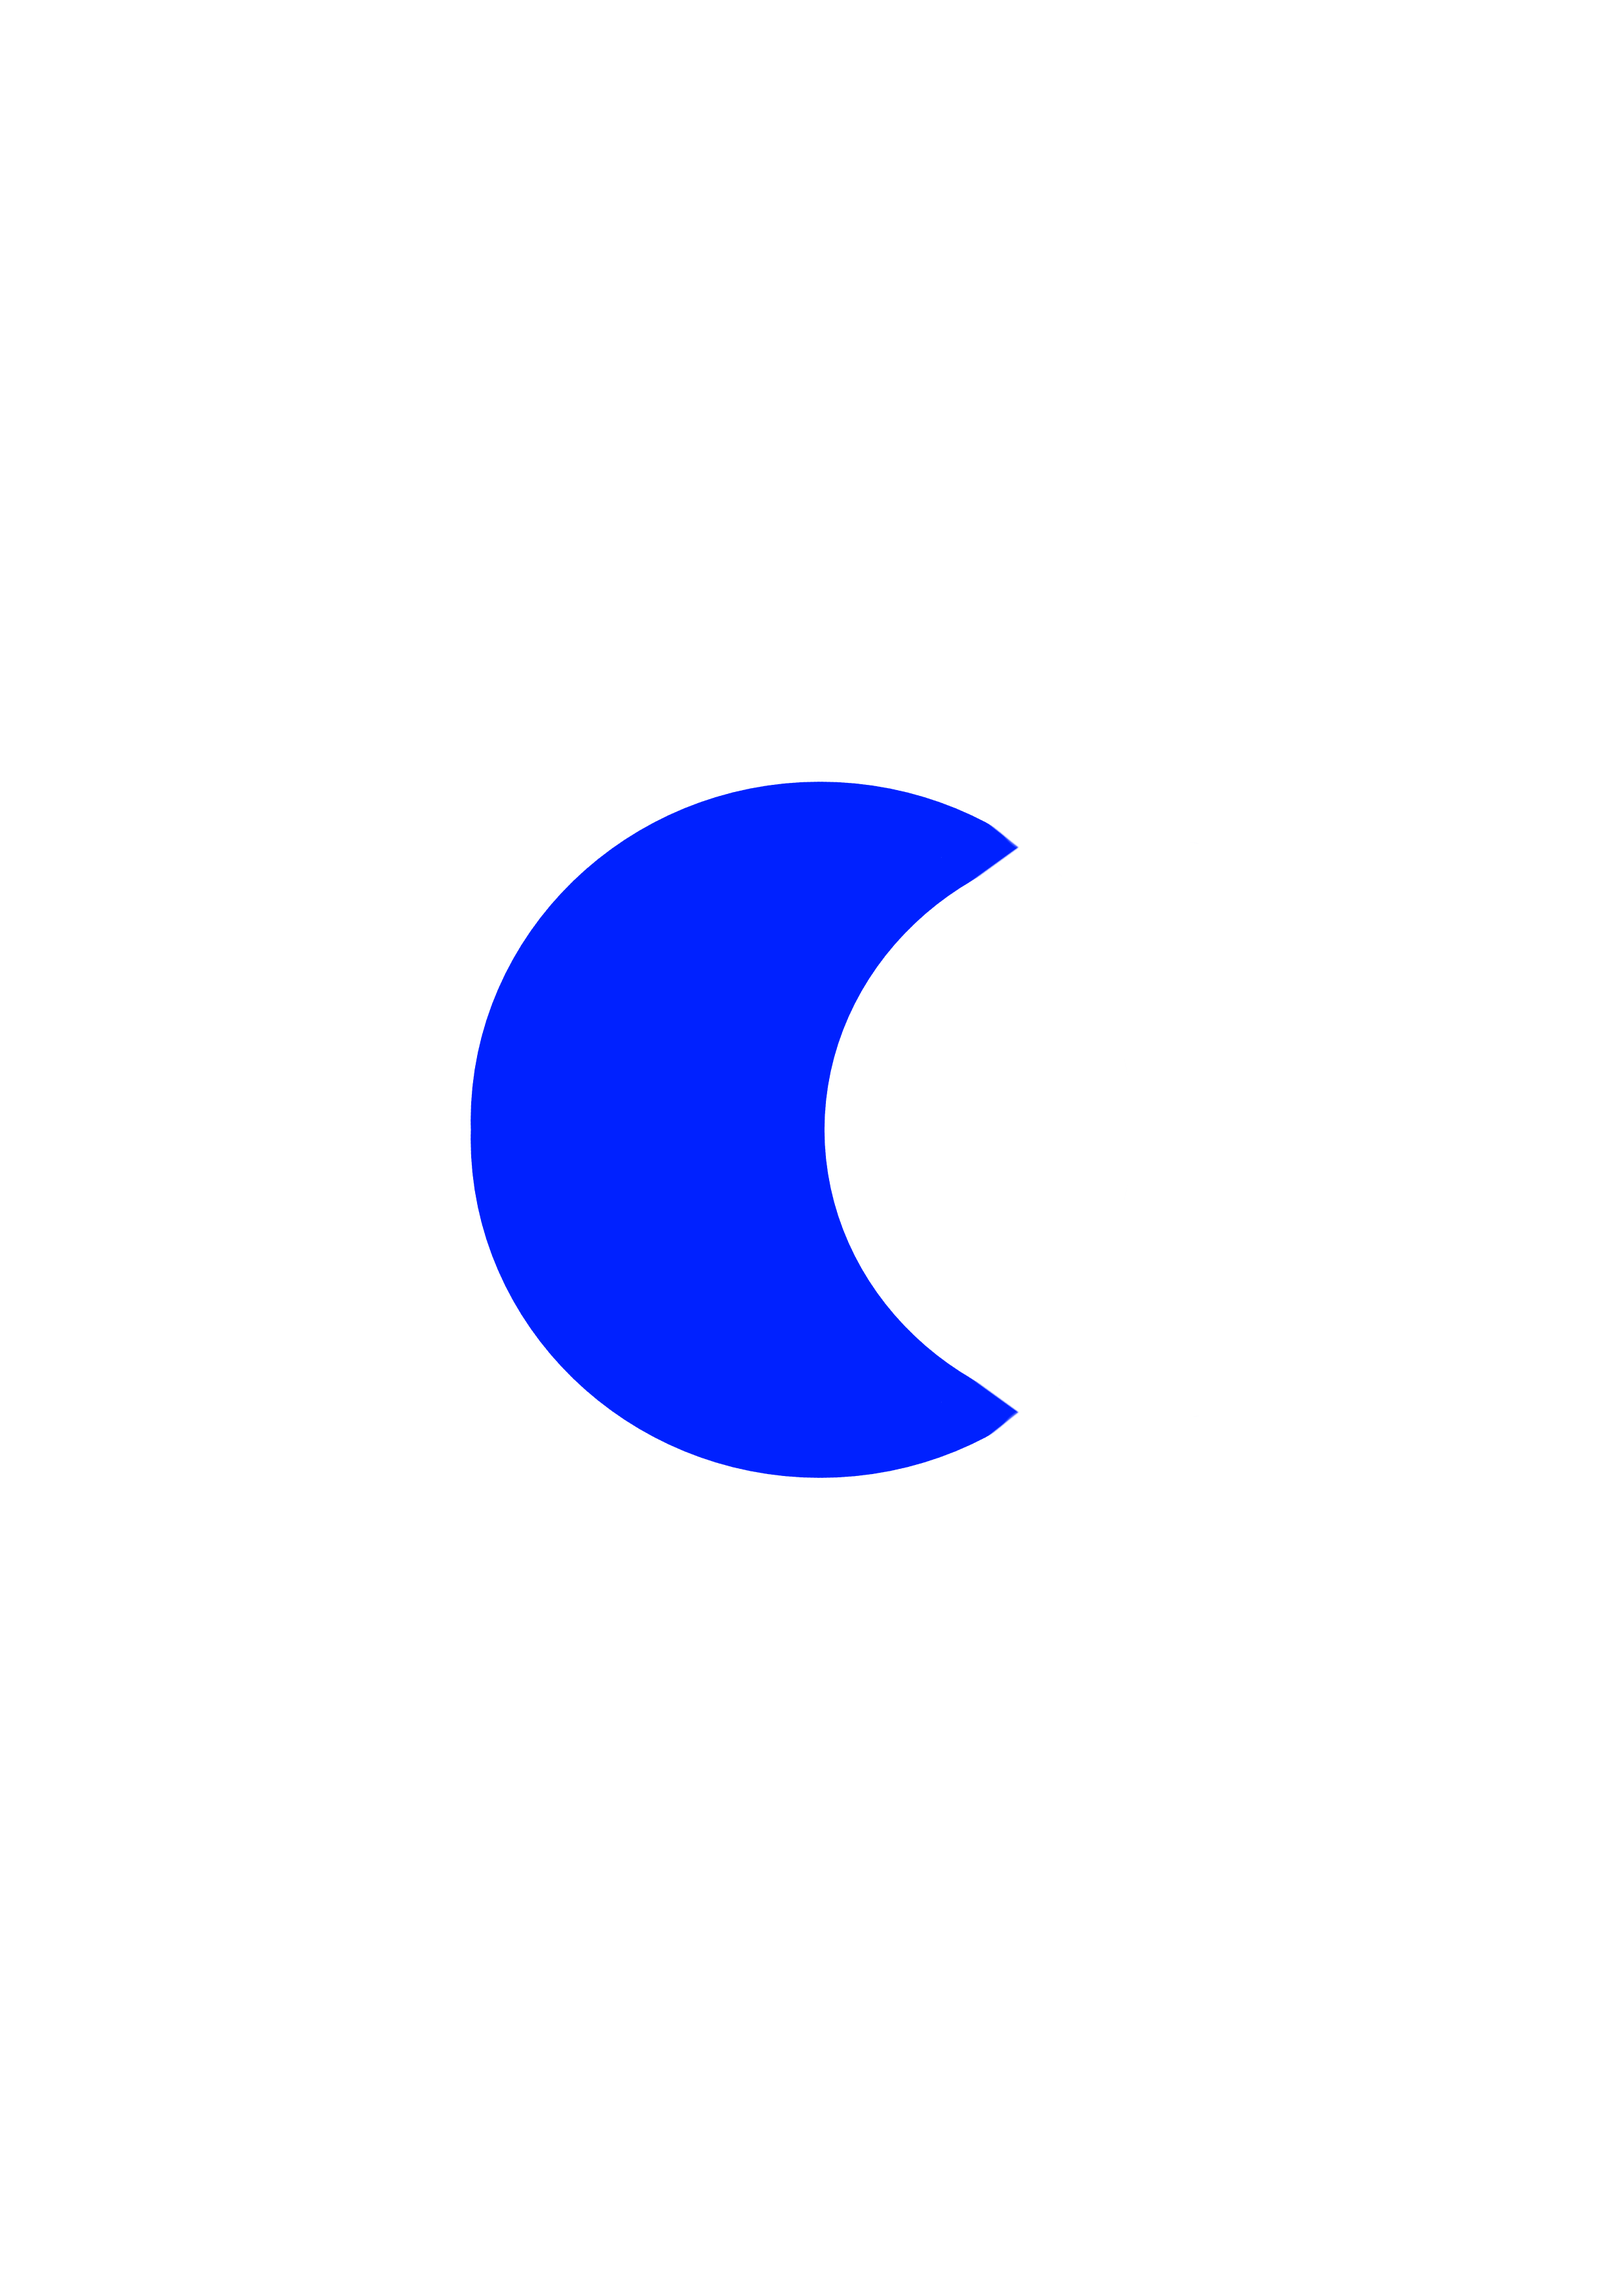
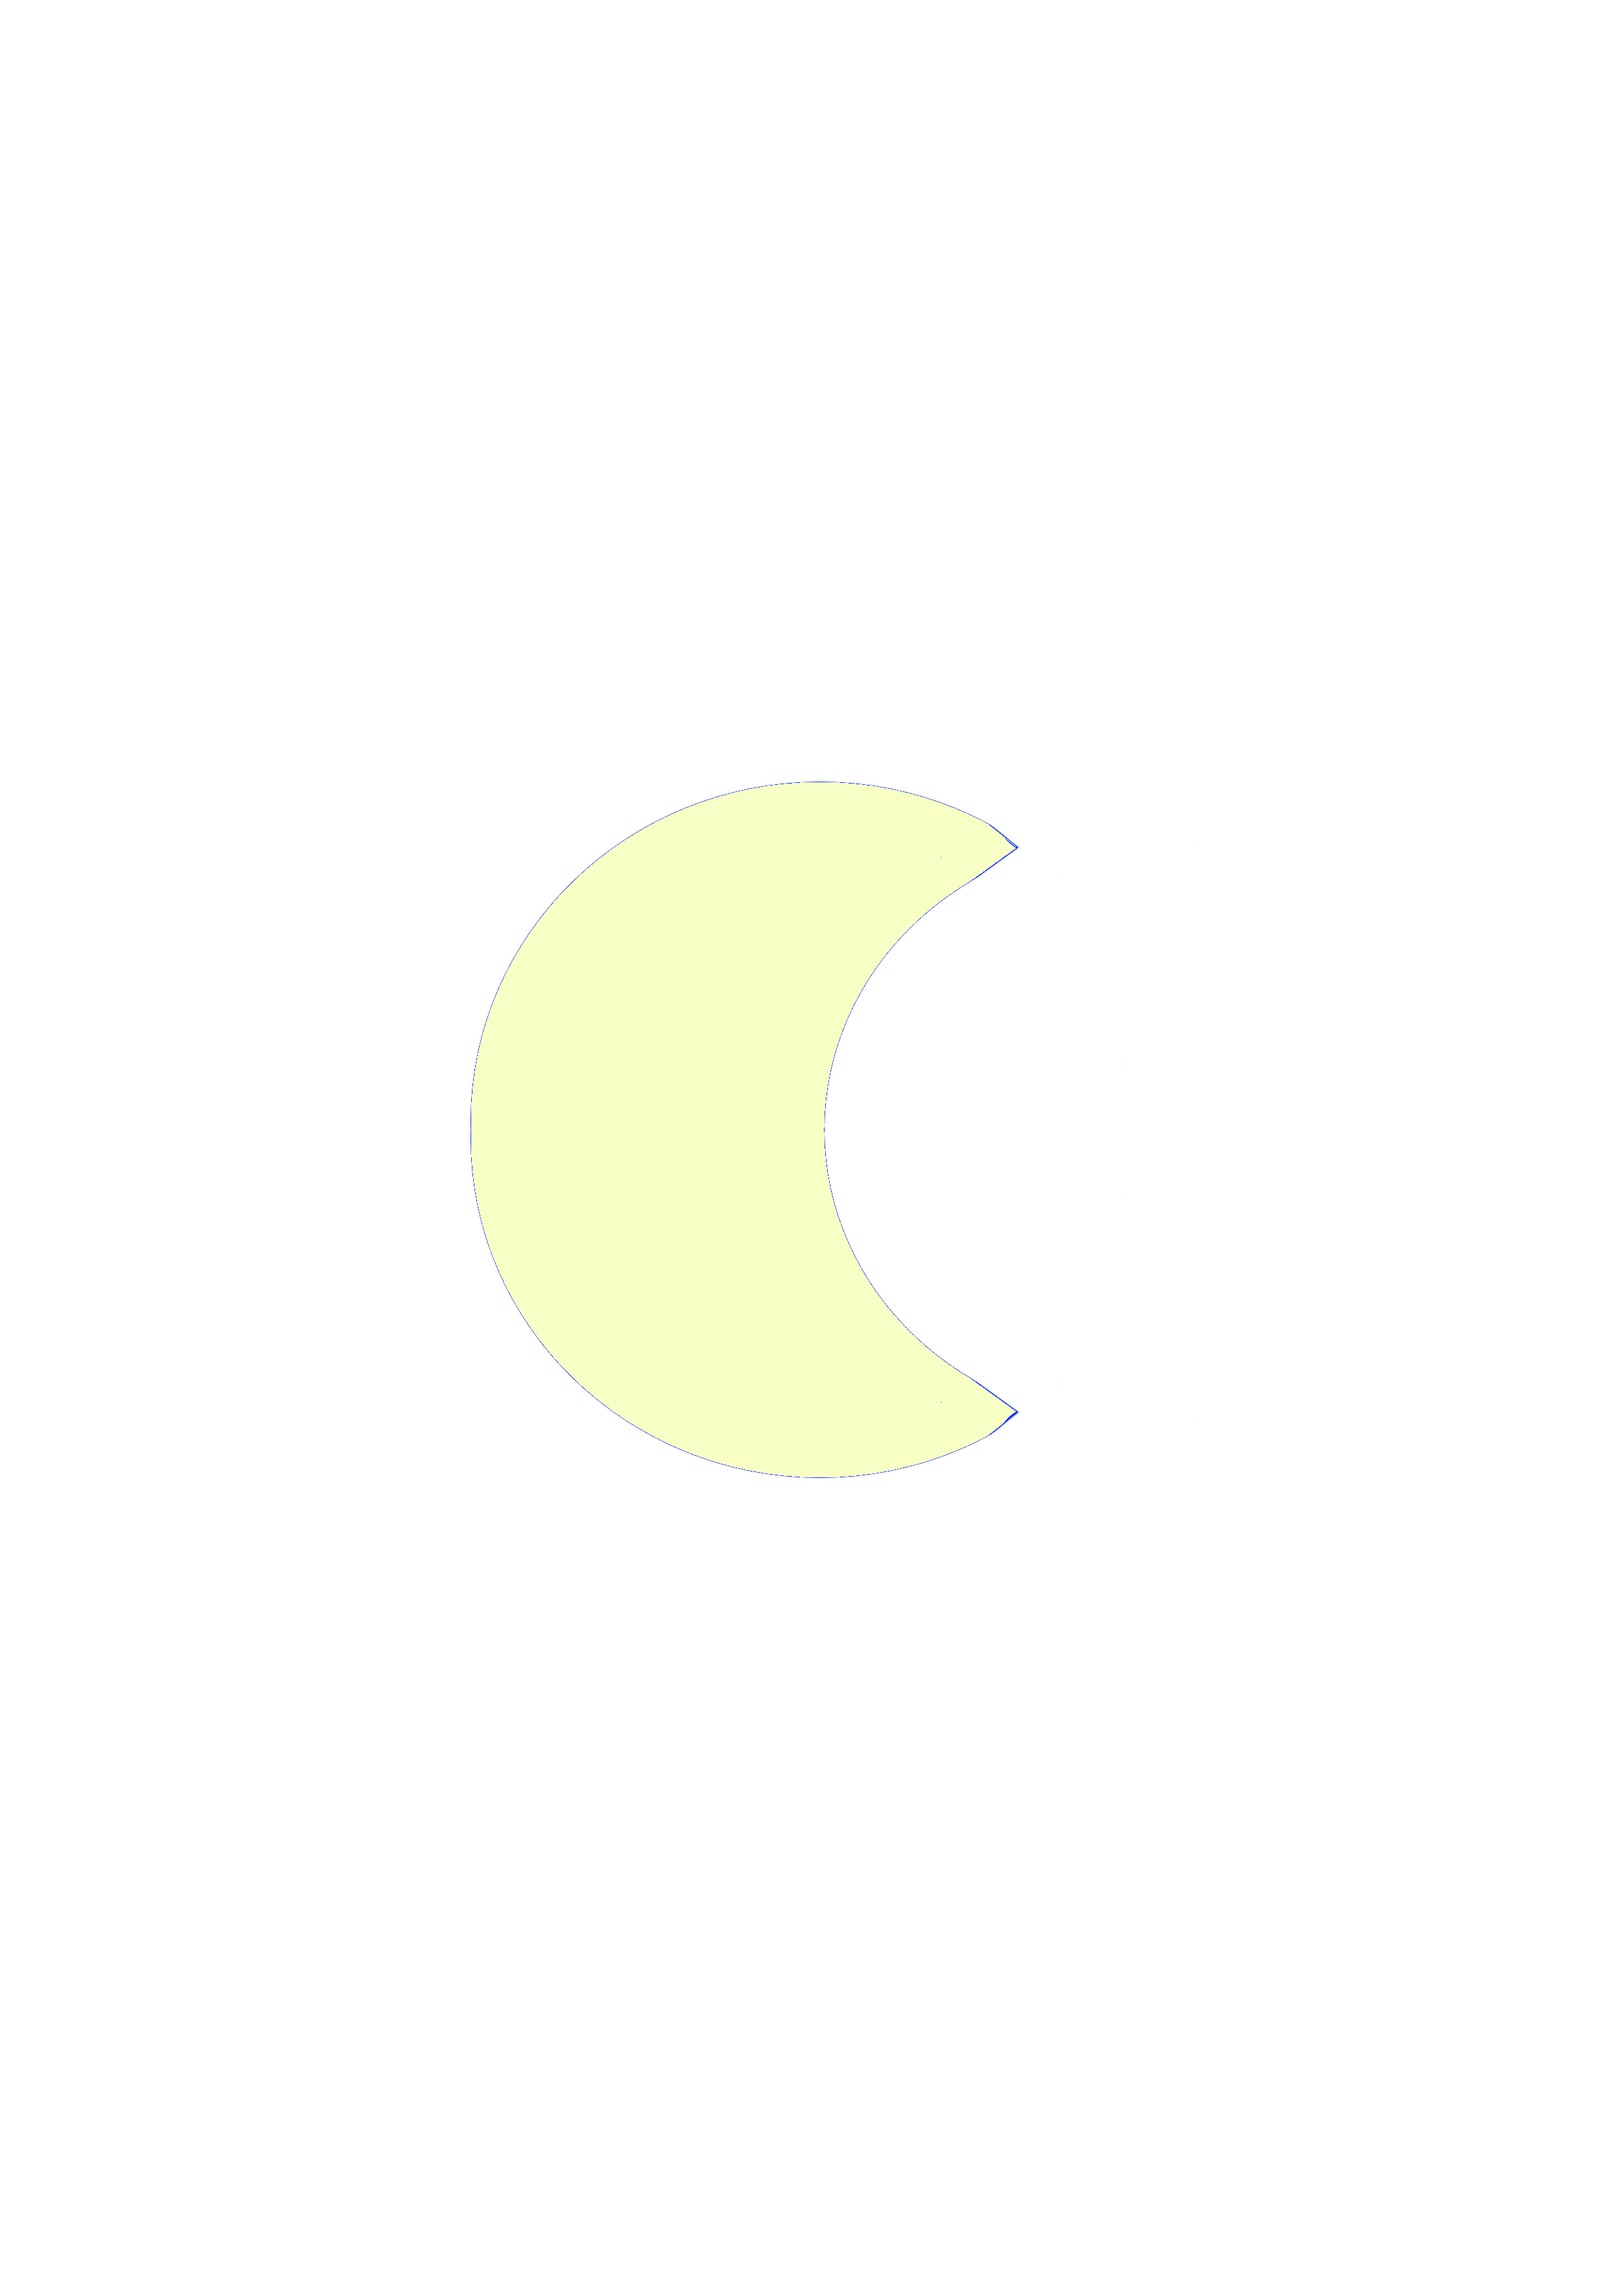
made some picture changes

Changed region(s): [[0.2794, 0.3418, 0.621, 0.6525]]

diff --git a/index.html b/index.html
@@ -9,8 +9,9 @@
         <link href="index.css" rel="stylesheet" type="text/css" />
     </head>
     <body>
-      <main>
-        <h1>Search repos by name on GitHub</h1>
+      <div class="top">
+        <h1>Weather App</h1>
+        <h2>Type In A Location</h2>
           <form action="#" class="js-search-form">
             <label for="query"></label>
             <input type="text" class="js-query">
@@ -27,9 +28,14 @@
 
             </div>
           </div>
-      </main>
+        </div>
       <section>
-        <img src="ClearSkyDay.png" alt="Failed to load sun" class="ClearSky">
+        <img src="ClearSkyDay.png" alt="Failed to load sun" id="ClearSkyDay" class="visible">
+        <img src="ClearSkyNight.png" alt="Failed to load Moon" id="ClearSkyNight">
+        <img src="DarkCloud.png" alt="Failed to load Dark Cloud" id="DarkCloud">
+        <img src="houseDay.png" alt="Failed to load house" id="houseDay">
+        <img src="houseNight.png" alt="Failed to load house" id="houseNight">
+        <img src="LightCloud.png" alt="Failed to load Light Cloud" id="LightCloud">
       </section>
       <script src="index.js"></script>
     </body>

diff --git a/index.css b/index.css
@@ -6,7 +6,23 @@ body{
     background-image: url("heavyRain.png");
     background-size: 50vmax;
 }
+.top{
+    float: left;
+}
 .ClearSky{
     width: 20vmax;
     min-width: 10em;
+}
+.hide{
+    display: none;
+}
+.visible{
+    display: block !important;
+}
+#ClearSkyDay,#ClearSkyNight,#DarkCloud,#heavyRain,#houseDay,#houseNight,#LightCloud{
+    display: none;
+}
+#ClearSkyDay{
+    float: right;
+    height: 20vmax;
 }

diff --git a/index.js b/index.js
@@ -72,6 +72,7 @@ function getDataFromApi(searchTerm, callback) {
 function displayGitHubSearchData(data) {
   $('.js-search-results .weatherCode').text(data.current.weather_code);
   $('.js-search-results .weatherDescription').text(data.current.weather_descriptions);
+
   switch(data.current.weather_code){
     case 113:
     break;
